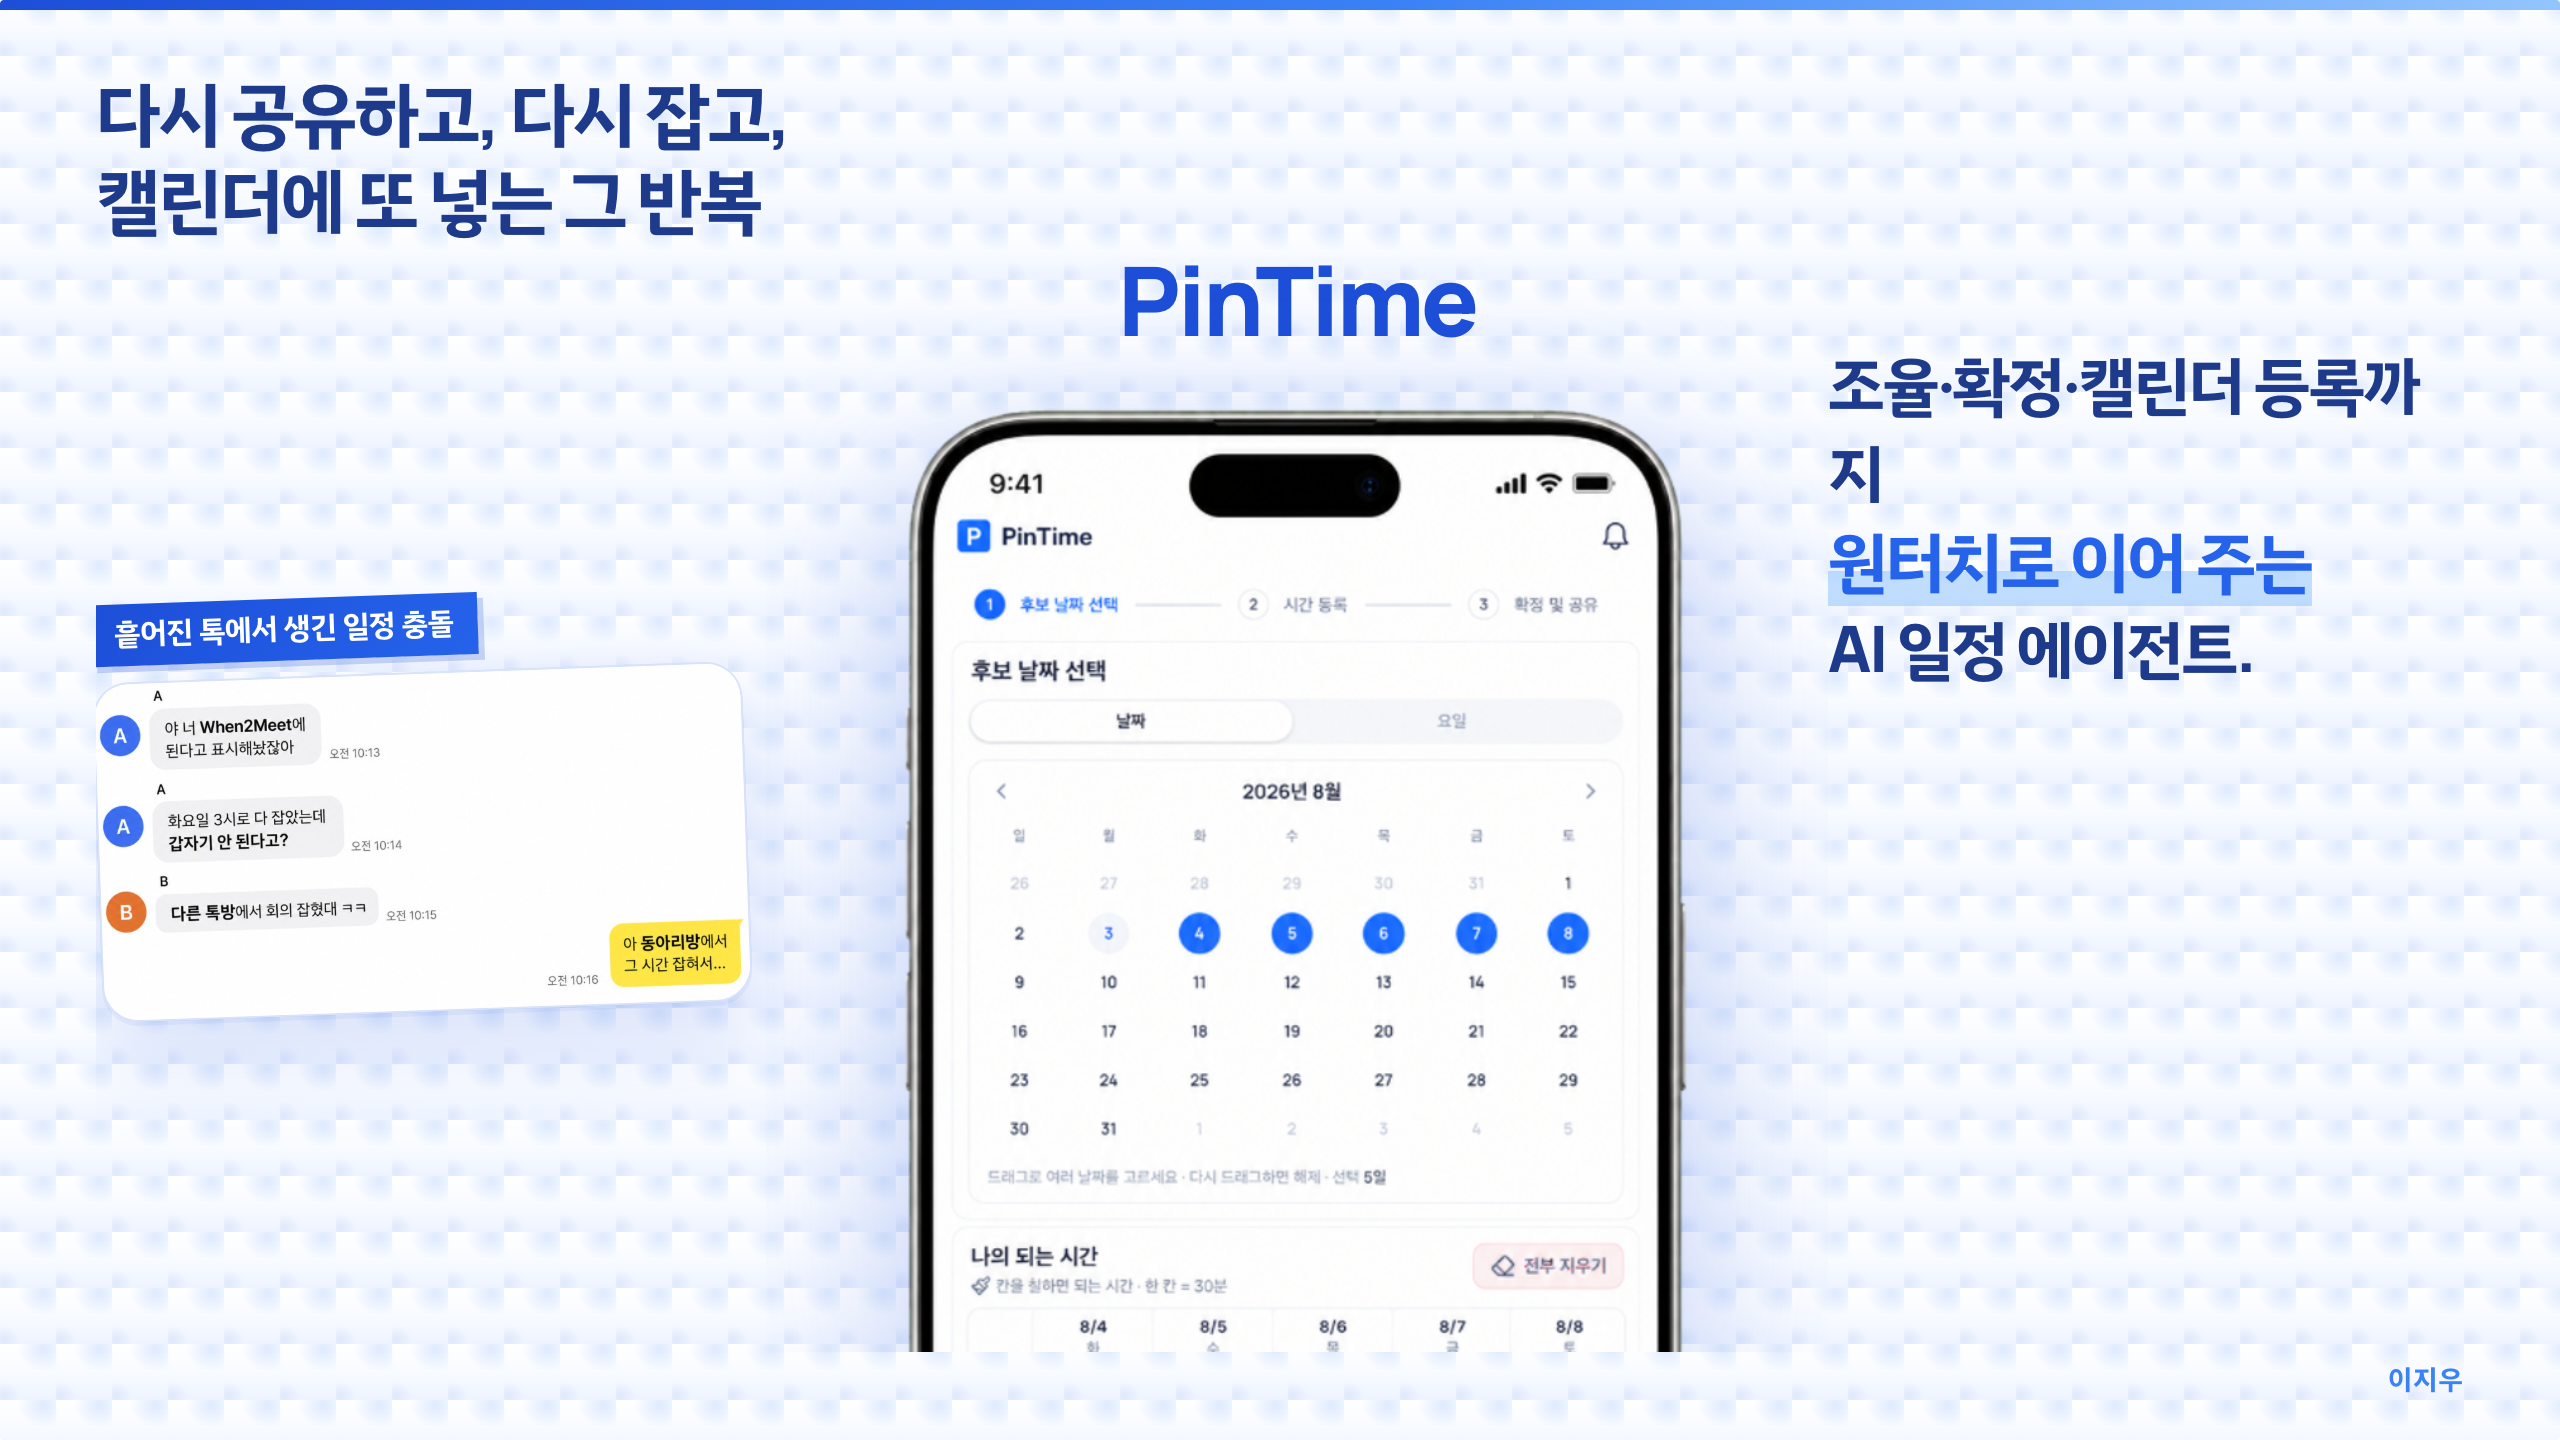
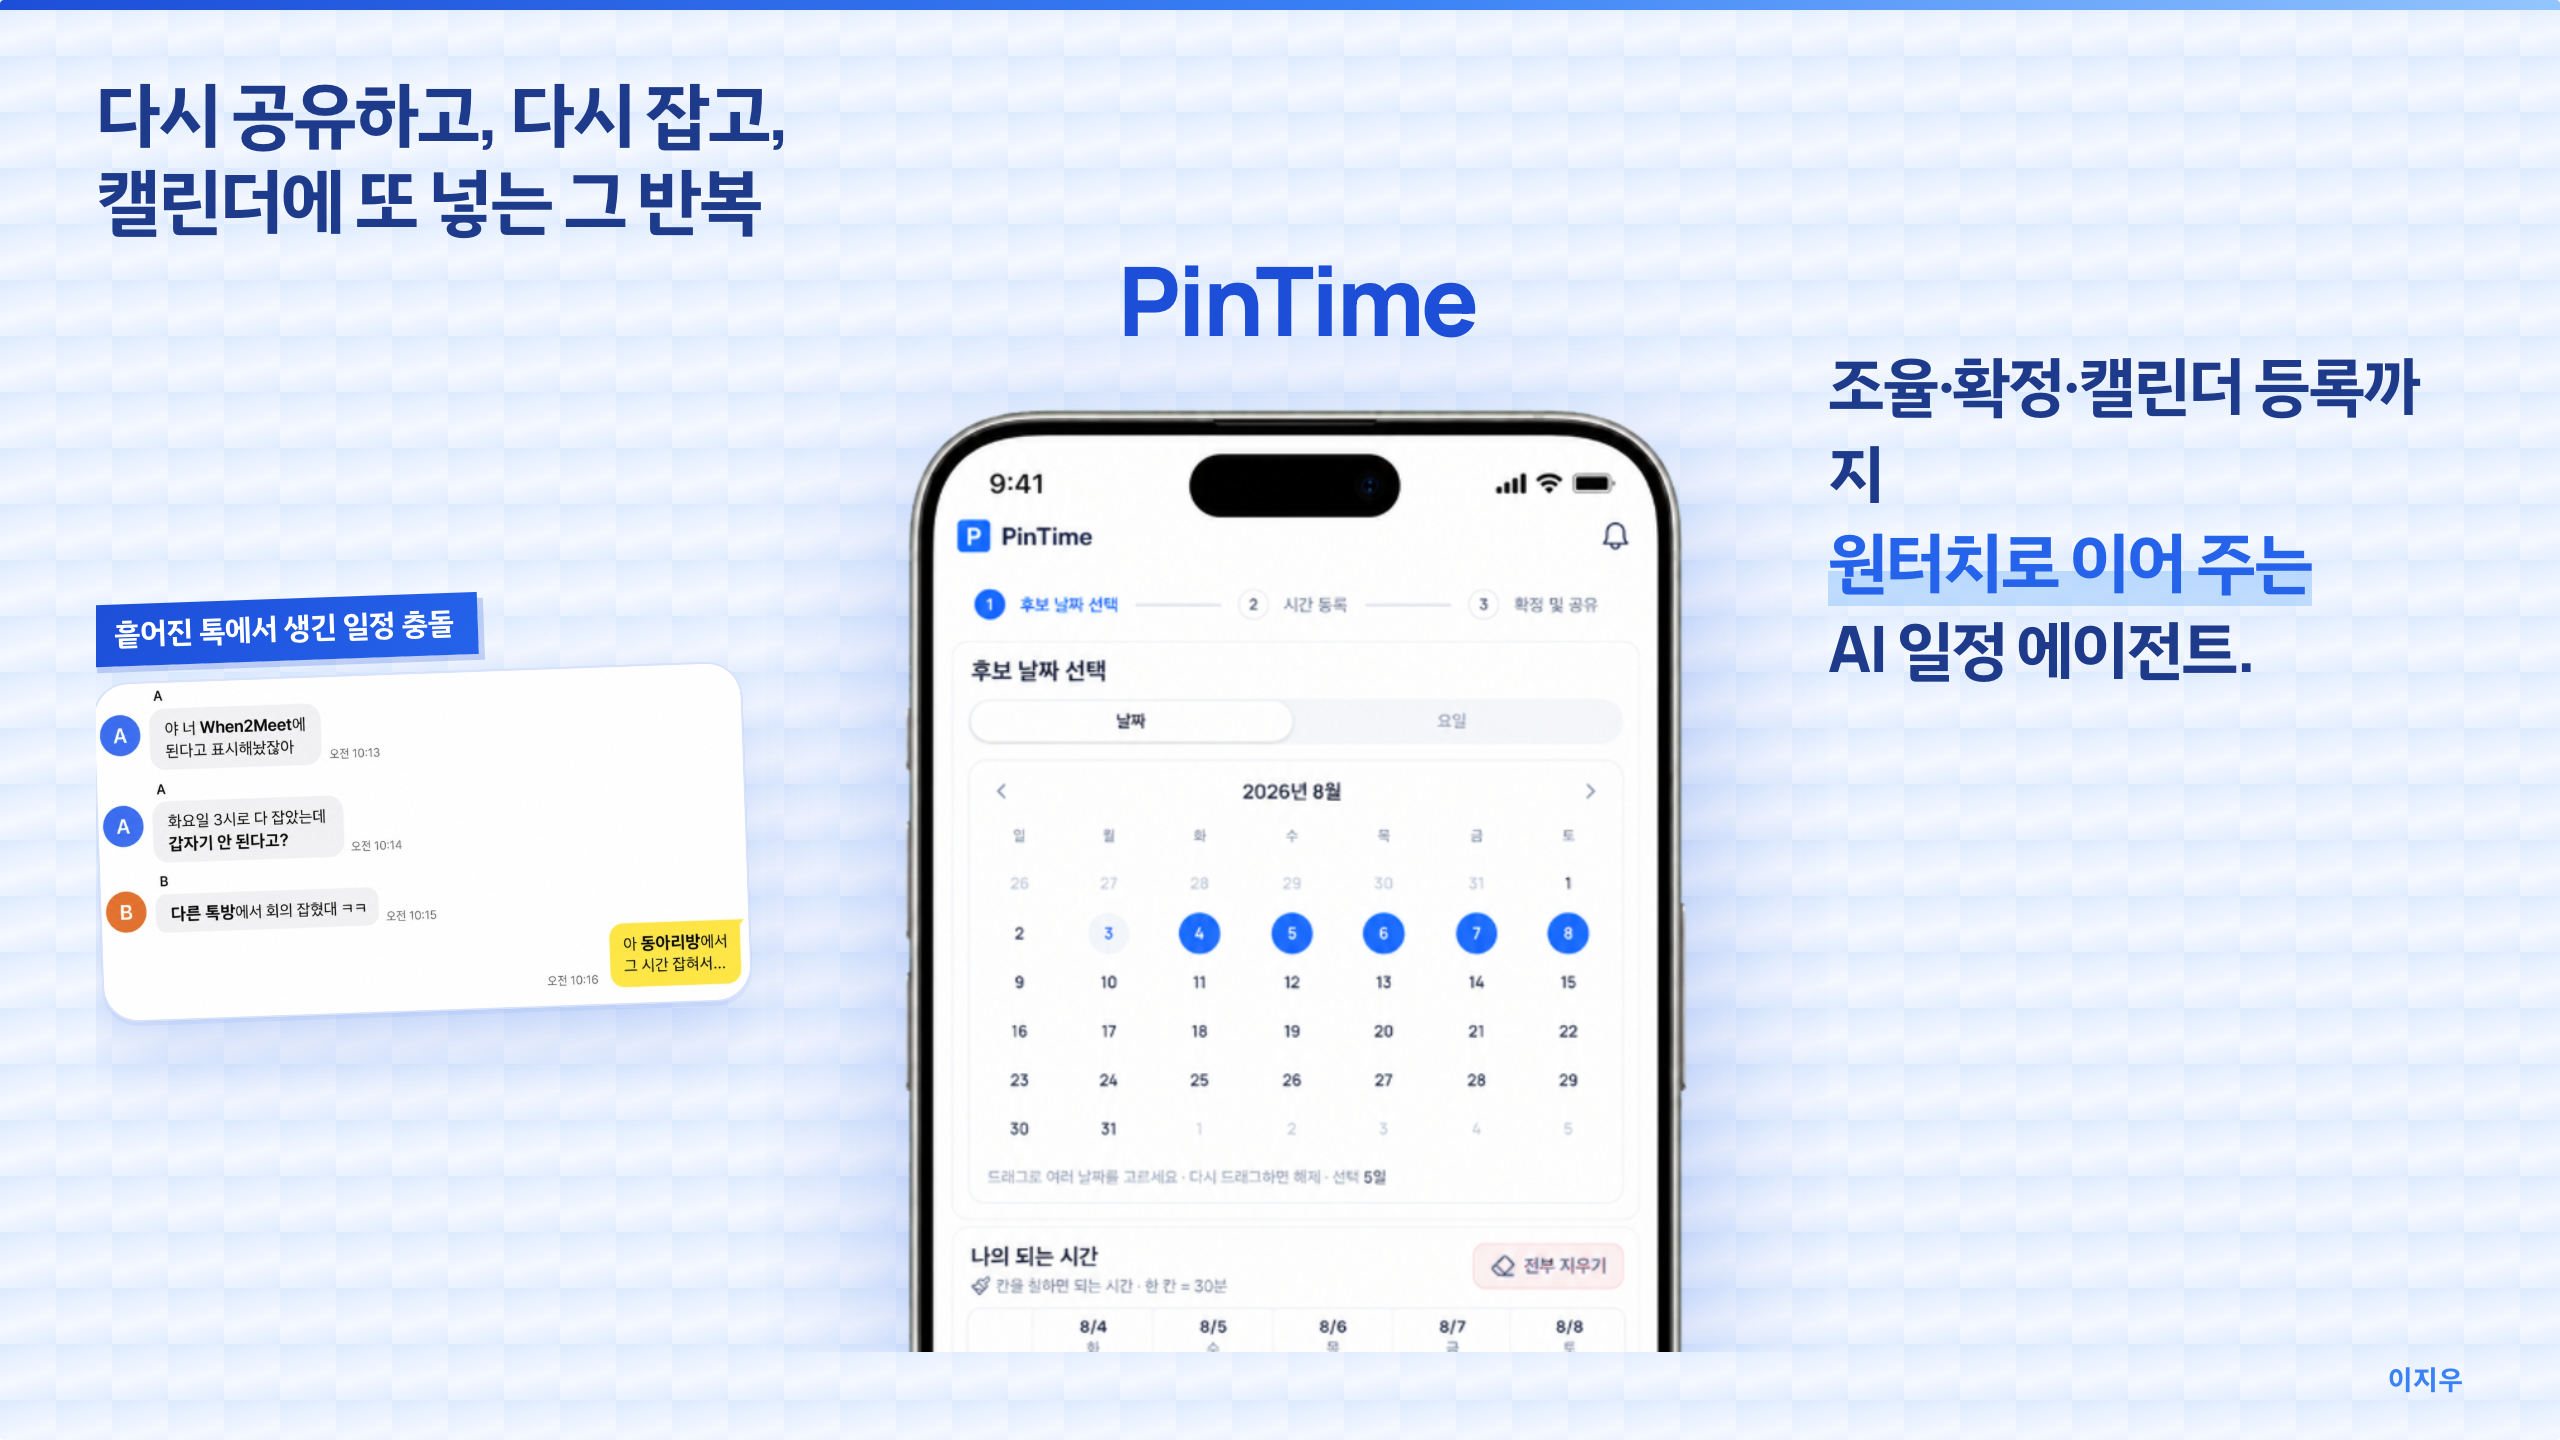
Use a smooth blue cover gradient without light-bleed spots.

diff --git a/public/pitch.html b/public/pitch.html
@@ -1147,11 +1147,14 @@
 
       /* ===== COVER (핀테크 블루 · 클린) ===== */
       .slide.cover {
-        background-color: #ffffff;
-        background-image:
-          radial-gradient(ellipse 80% 70% at 78% 8%, rgba(59, 130, 246, 0.16), transparent 58%),
-          radial-gradient(ellipse 50% 45% at 8% 92%, rgba(29, 78, 216, 0.08), transparent 55%),
-          linear-gradient(180deg, #ffffff 0%, #f7faff 55%, #eef4ff 100%);
+        background-color: #eef4ff;
+        background-image: linear-gradient(
+          165deg,
+          #dbeafe 0%,
+          #e8f1ff 28%,
+          #f4f8ff 58%,
+          #e0ecff 100%
+        );
         color: var(--ink);
       }
 
